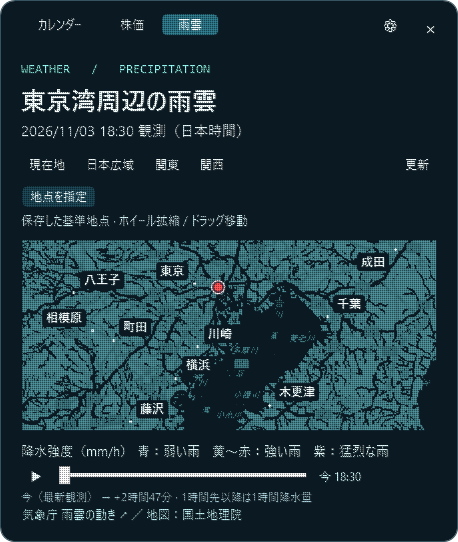
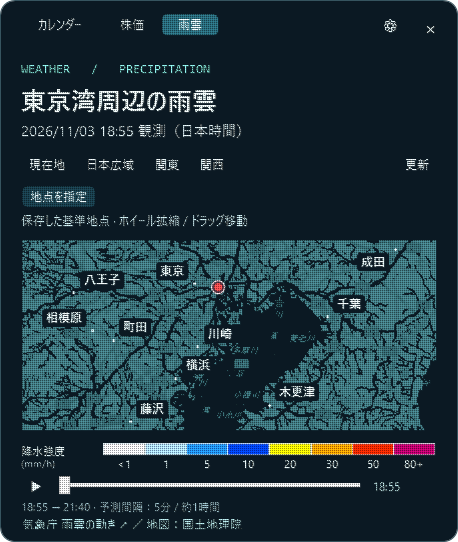
Make radar playback single-pass and add a color legend

Changed region(s): [[0.0306, 0.797, 0.9476, 0.9742], [0.8253, 0.8856, 0.8865, 0.9151], [0.2751, 0.2362, 0.3057, 0.2657]]

diff --git a/src/Calendar.xaml b/src/Calendar.xaml
@@ -90,9 +90,14 @@
         <TextBlock Name="MapHint" FontFamily="Segoe UI" TextTrimming="CharacterEllipsis" ToolTip="{Binding Text, RelativeSource={RelativeSource Self}}" Foreground="#B9D7DE" FontSize="12" Margin="0,5,0,0" Visibility="Collapsed"/>
         <Canvas Name="Plot" Background="Transparent" Width="414" Height="220" Margin="0,12,0,0" ClipToBounds="True"/>
         <TextBlock Name="PlotCaption" Foreground="#CAEAEB" FontSize="13" Margin="0,6,0,6"/>
+        <Grid Name="RainLegend" Height="31" Margin="0,5,0,3" Visibility="Collapsed">
+          <Grid.ColumnDefinitions><ColumnDefinition Width="82"/><ColumnDefinition/></Grid.ColumnDefinitions>
+          <StackPanel VerticalAlignment="Center"><TextBlock Name="RainLegendTitle" Text="降水強度" Foreground="#D5EAEC" FontSize="11"/><TextBlock Name="RainLegendUnit" Text="(mm/h)" Foreground="#AFCAD2" FontSize="10"/></StackPanel>
+          <Canvas Name="RainLegendBar" Grid.Column="1" IsHitTestVisible="False"/>
+        </Grid>
         <StackPanel Name="RadarControls" Orientation="Horizontal" Visibility="Collapsed">
           <Button Name="RadarPlay" Content="▶" Width="30" ToolTip="雨雲の時刻を再生"/>
-          <Slider Name="RadarTime" Width="252" Minimum="0" Maximum="6" TickFrequency="1" IsSnapToTickEnabled="True" Margin="8,0"/>
+          <Slider Name="RadarTime" Width="306" Minimum="0" Maximum="6" TickFrequency="1" IsSnapToTickEnabled="True" IsMoveToPointEnabled="True" Margin="8,0"/>
           <TextBlock Name="RadarClock" Foreground="#B3DBDF" VerticalAlignment="Center"/>
         </StackPanel>
         <TextBlock Name="RadarRange" Foreground="#92B5BE" FontSize="11" TextTrimming="CharacterEllipsis" ToolTip="{Binding Text, RelativeSource={RelativeSource Self}}" Margin="0,2,0,1" Visibility="Collapsed"/>

diff --git a/src/RadarTimeline.cs b/src/RadarTimeline.cs
@@ -15,21 +15,28 @@ namespace OrbitCalendar
             if (radarFrames == null || radarFrames.Length == 0) return 0;
             return Enumerable.Range(0, radarFrames.Length).OrderBy(i => Math.Abs(RadarMinutes(radarFrames[i]) - minutes)).First();
         }
-        static string RainOffset(double minutes)
+        void AdvanceRadarPlayback()
         {
-            int total = (int)Math.Round(minutes);
-            if (total <= 0) return "今";
-            return "+" + (total >= 60 ? total / 60 + "時間" : "") + (total % 60 > 0 ? total % 60 + "分" : "");
+            if (radarFrames == null || radarFrames.Length < 2) { StopRadar(); return; }
+            var slider = Get<Slider>("RadarTime");
+            int index = RadarIndex(slider.Value);
+            if (index < radarFrames.Length - 1) slider.Value = RadarMinutes(radarFrames[index + 1]);
+            if (index >= radarFrames.Length - 2) { StopRadar(); effect.Refresh(); }
         }
         void UpdateRadarCaption(LiveData.View frame)
         {
-            Get<TextBlock>("DataStamp").Text = frame.Stamp;
+            Get<TextBlock>("DataStamp").Text = frame.Stamp + (frame.HourlyRain ? "（" + frame.ValidUtc.AddHours(8).ToString("HH:mm") + "–" + frame.ValidUtc.AddHours(9).ToString("HH:mm") + "）" : "");
             Get<TextBlock>("PlotCaption").Text = frame.Caption;
-            Get<TextBlock>("RadarClock").Text = (!frame.Forecast && (radarOrigin - frame.ValidUtc).TotalMinutes > 15 ? "観測" : RainOffset(RadarMinutes(frame))) + " " + frame.ValidUtc.AddHours(9).ToString("HH:mm");
+            Get<TextBlock>("RadarClock").Text = frame.ValidUtc.AddHours(9).ToString("HH:mm");
+            Get<TextBlock>("RainLegendTitle").Text = frame.HourlyRain ? "1時間雨量" : "降水強度";
+            Get<TextBlock>("RainLegendUnit").Text = frame.HourlyRain ? "(mm)" : "(mm/h)";
+            Get<Grid>("RainLegend").ToolTip = frame.Caption;
             Get<Button>("DataSource").Content = (frame.HourlyRain ? "気象庁 今後の雨" : "気象庁 雨雲の動き") + " ↗ ／ 地図：国土地理院";
         }
         void SetRadarTimeline(LiveData.View view)
         {
+            Get<Grid>("RainLegend").Visibility = Visibility.Visible;
+            Get<TextBlock>("PlotCaption").Visibility = Visibility.Collapsed;
             radarFrames = view.Frames ?? new[] { view };
             radarOrigin = view.OriginUtc == default(DateTime) ? radarFrames[0].ValidUtc : view.OriginUtc;
             Get<Button>("RadarPlay").IsEnabled = radarFrames.Length > 1;
@@ -42,8 +49,8 @@ namespace OrbitCalendar
             slider.Value = RadarMinutes(view);
             updatingTimeline = false;
             double age = Math.Max(0, (radarOrigin - radarFrames[0].ValidUtc).TotalMinutes);
-            string range = (age > 15 ? "観測" + (int)age + "分前" : "今（最新観測）") + " → " + RainOffset(slider.Maximum);
-            Get<TextBlock>("RadarRange").Text = range + (radarFrames.Any(f => f.HourlyRain) ? " · 1時間先以降は1時間降水量" :
+            string range = radarFrames[0].ValidUtc.AddHours(9).ToString("HH:mm") + " → " + radarFrames.Last().ValidUtc.AddHours(9).ToString("HH:mm");
+            Get<TextBlock>("RadarRange").Text = range + (age > 15 ? " · 観測" + (int)age + "分前" : "") + (radarFrames.Any(f => f.HourlyRain) ? " · 予測間隔：5分 / 約1時間" :
                 radarFrames.Length > 1 ? " · 取得できた予測範囲" : " · 予測を取得できませんでした");
             DrawRadar(view);
             UpdateRadarCaption(view);

diff --git a/src/DataViews.cs b/src/DataViews.cs
@@ -33,19 +33,20 @@ namespace OrbitCalendar
             InitializePlacePicker();
             InitializeMarketSettings();
             radarPlayback.Interval = TimeSpan.FromMilliseconds(650);
-            radarPlayback.Tick += delegate
-            {
-                if (radarFrames == null || radarFrames.Length < 2) { StopRadar(); return; }
-                var slider = Get<Slider>("RadarTime");
-                int index = RadarIndex(slider.Value);
-                slider.Value = RadarMinutes(radarFrames[(index + 1) % radarFrames.Length]);
-            };
+            radarPlayback.Tick += delegate { AdvanceRadarPlayback(); };
             Get<Button>("RadarPlay").Click += delegate
             {
                 if (radarFrames == null || radarFrames.Length < 2) return;
                 if (radarPlayback.IsEnabled) StopRadar();
-                else { radarPlayback.Start(); Get<Button>("RadarPlay").Content = "■"; effect.Refresh(); }
+                else
+                {
+                    var slider = Get<Slider>("RadarTime");
+                    if (RadarIndex(slider.Value) == radarFrames.Length - 1) slider.Value = RadarMinutes(radarFrames[0]);
+                    radarPlayback.Start(); Get<Button>("RadarPlay").Content = "■"; effect.Refresh();
+                }
             };
+            Get<Slider>("RadarTime").PreviewMouseLeftButtonDown += delegate { StopRadar(); effect.Refresh(); };
+            InitializeRainLegend();
             Get<Slider>("RadarTime").ValueChanged += delegate
             {
                 if (updatingTimeline || radarFrames == null || mode != 2) return;
@@ -109,6 +110,8 @@ namespace OrbitCalendar
             Get<Canvas>("Plot").Height = market ? 220 : LiveData.MapHeight + 6;
             Get<StackPanel>("RadarControls").Visibility = market ? Visibility.Collapsed : Visibility.Visible;
             Get<TextBlock>("RadarRange").Visibility = market ? Visibility.Collapsed : Visibility.Visible;
+            Get<Grid>("RainLegend").Visibility = market ? Visibility.Collapsed : Visibility.Visible;
+            Get<TextBlock>("PlotCaption").Visibility = market ? Visibility.Visible : Visibility.Collapsed;
             var names = LiveData.Regions;
             var stamp = Get<TextBlock>("DataStamp");
             var refresh = Get<Button>("RefreshData");

diff --git a/src/RainForecast.cs b/src/RainForecast.cs
@@ -37,8 +37,10 @@ namespace OrbitCalendar
             var result = new List<RadarTime> { observed };
             var near = nowcast.Where(t => t.elements != null && t.elements.Contains("hrpns") &&
                 RainUtc(t.validtime) > origin && RainUtc(t.validtime) <= origin.AddHours(1)).ToArray();
-            for (int minutes = 10; minutes <= 60; minutes += 10)
-                AddNearestRain(result, near, origin.AddMinutes(minutes), 5, false);
+            foreach (var time in near.GroupBy(t => t.validtime).Select(g => g.OrderByDescending(t => t.basetime, StringComparer.Ordinal).First()))
+            {
+                time.Product = "nowc"; result.Add(time);
+            }
             // Public short-range tiles advance in roughly one-hour steps. Use real
             // available times, ending closest to +3h (within about half an hour).
             var far = shortRange.Where(t => t.elements != null && t.elements.Contains("rasrf") && t.basetime != t.validtime &&
@@ -57,16 +59,6 @@ namespace OrbitCalendar
                 }
             foreach (var time in result) time.OriginUtc = origin;
             return result.OrderBy(t => t.validtime, StringComparer.Ordinal).ToArray();
-        }
-
-        static void AddNearestRain(List<RadarTime> result, RadarTime[] candidates, DateTime target, int tolerance, bool hourly)
-        {
-            var time = candidates.OrderBy(t => Math.Abs((RainUtc(t.validtime) - target).TotalMinutes))
-                .ThenByDescending(t => t.basetime, StringComparer.Ordinal).FirstOrDefault();
-            if (time == null || Math.Abs((RainUtc(time.validtime) - target).TotalMinutes) > tolerance ||
-                result.Any(t => t.validtime == time.validtime)) return;
-            time.Product = hourly ? "rasrf" : "nowc";
-            result.Add(time);
         }
 
         static async Task<byte[]> RainPixels(int zoom, int x, int y, RadarTime time, CancellationToken token,

diff --git a/src/RainLegend.cs b/src/RainLegend.cs
@@ -1,0 +1,29 @@
+using System.Windows;
+using System.Windows.Controls;
+using System.Windows.Media;
+using System.Windows.Shapes;
+
+namespace OrbitCalendar
+{
+    internal partial class CalendarPanel
+    {
+        void InitializeRainLegend()
+        {
+            // JMA's normal palette and boundaries match the unmodified radar tiles.
+            // Both products use these bins, with their respective mm/h or mm unit.
+            string[] colors = { "#F2F2FF", "#A0D2FF", "#218CFF", "#0041FF", "#FFF500", "#FF9900", "#FF2800", "#B40068" };
+            string[] numbers = { "<1", "1", "5", "10", "20", "30", "50", "80+" };
+            var canvas = Get<Canvas>("RainLegendBar");
+            const double width = 41.5;
+            for (int i = 0; i < colors.Length; i++)
+            {
+                var color = new Rectangle { Width = width, Height = 12, Fill = Art.Ink(colors[i]),
+                    Stroke = Art.Ink("#D7E6E9"), StrokeThickness = .7 };
+                Canvas.SetLeft(color, i * width); Canvas.SetTop(color, 2); canvas.Children.Add(color);
+                var number = new TextBlock { Text = numbers[i], Width = width, TextAlignment = TextAlignment.Center,
+                    Foreground = Art.Ink("#D5EAEC"), FontSize = 10.5, FontFamily = new FontFamily("Segoe UI") };
+                Canvas.SetLeft(number, i * width); Canvas.SetTop(number, 16); canvas.Children.Add(number);
+            }
+        }
+    }
+}
